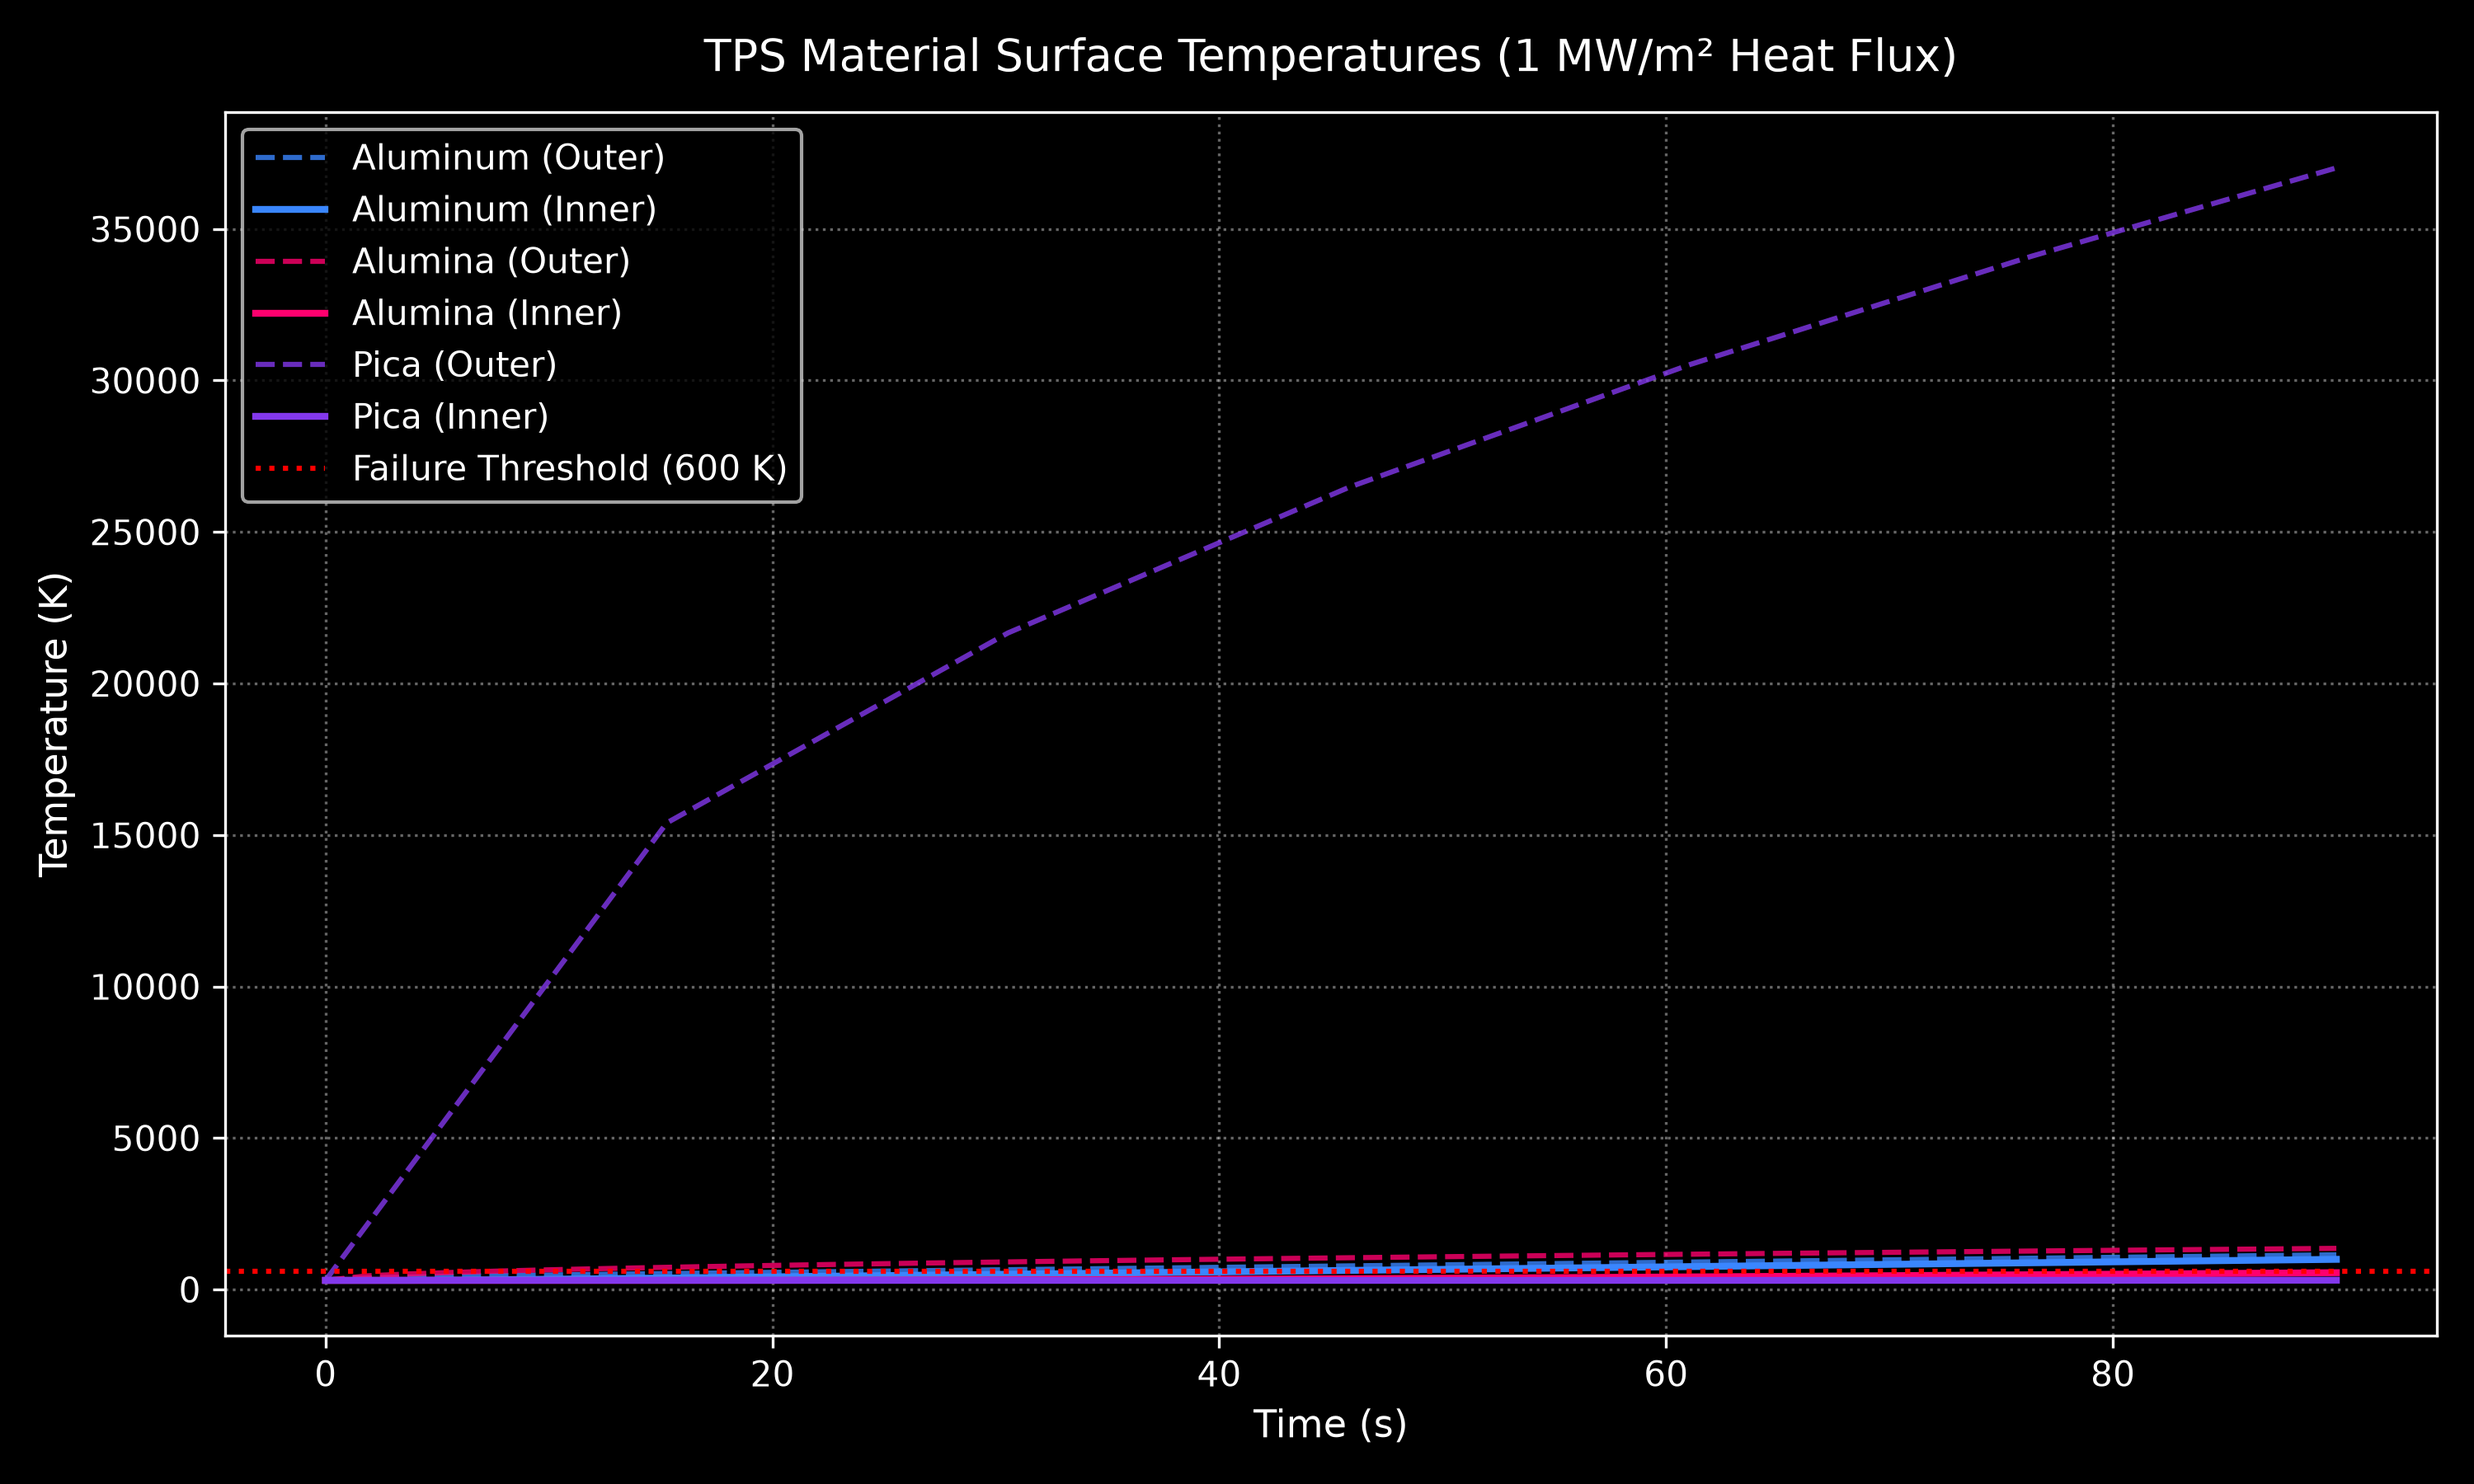
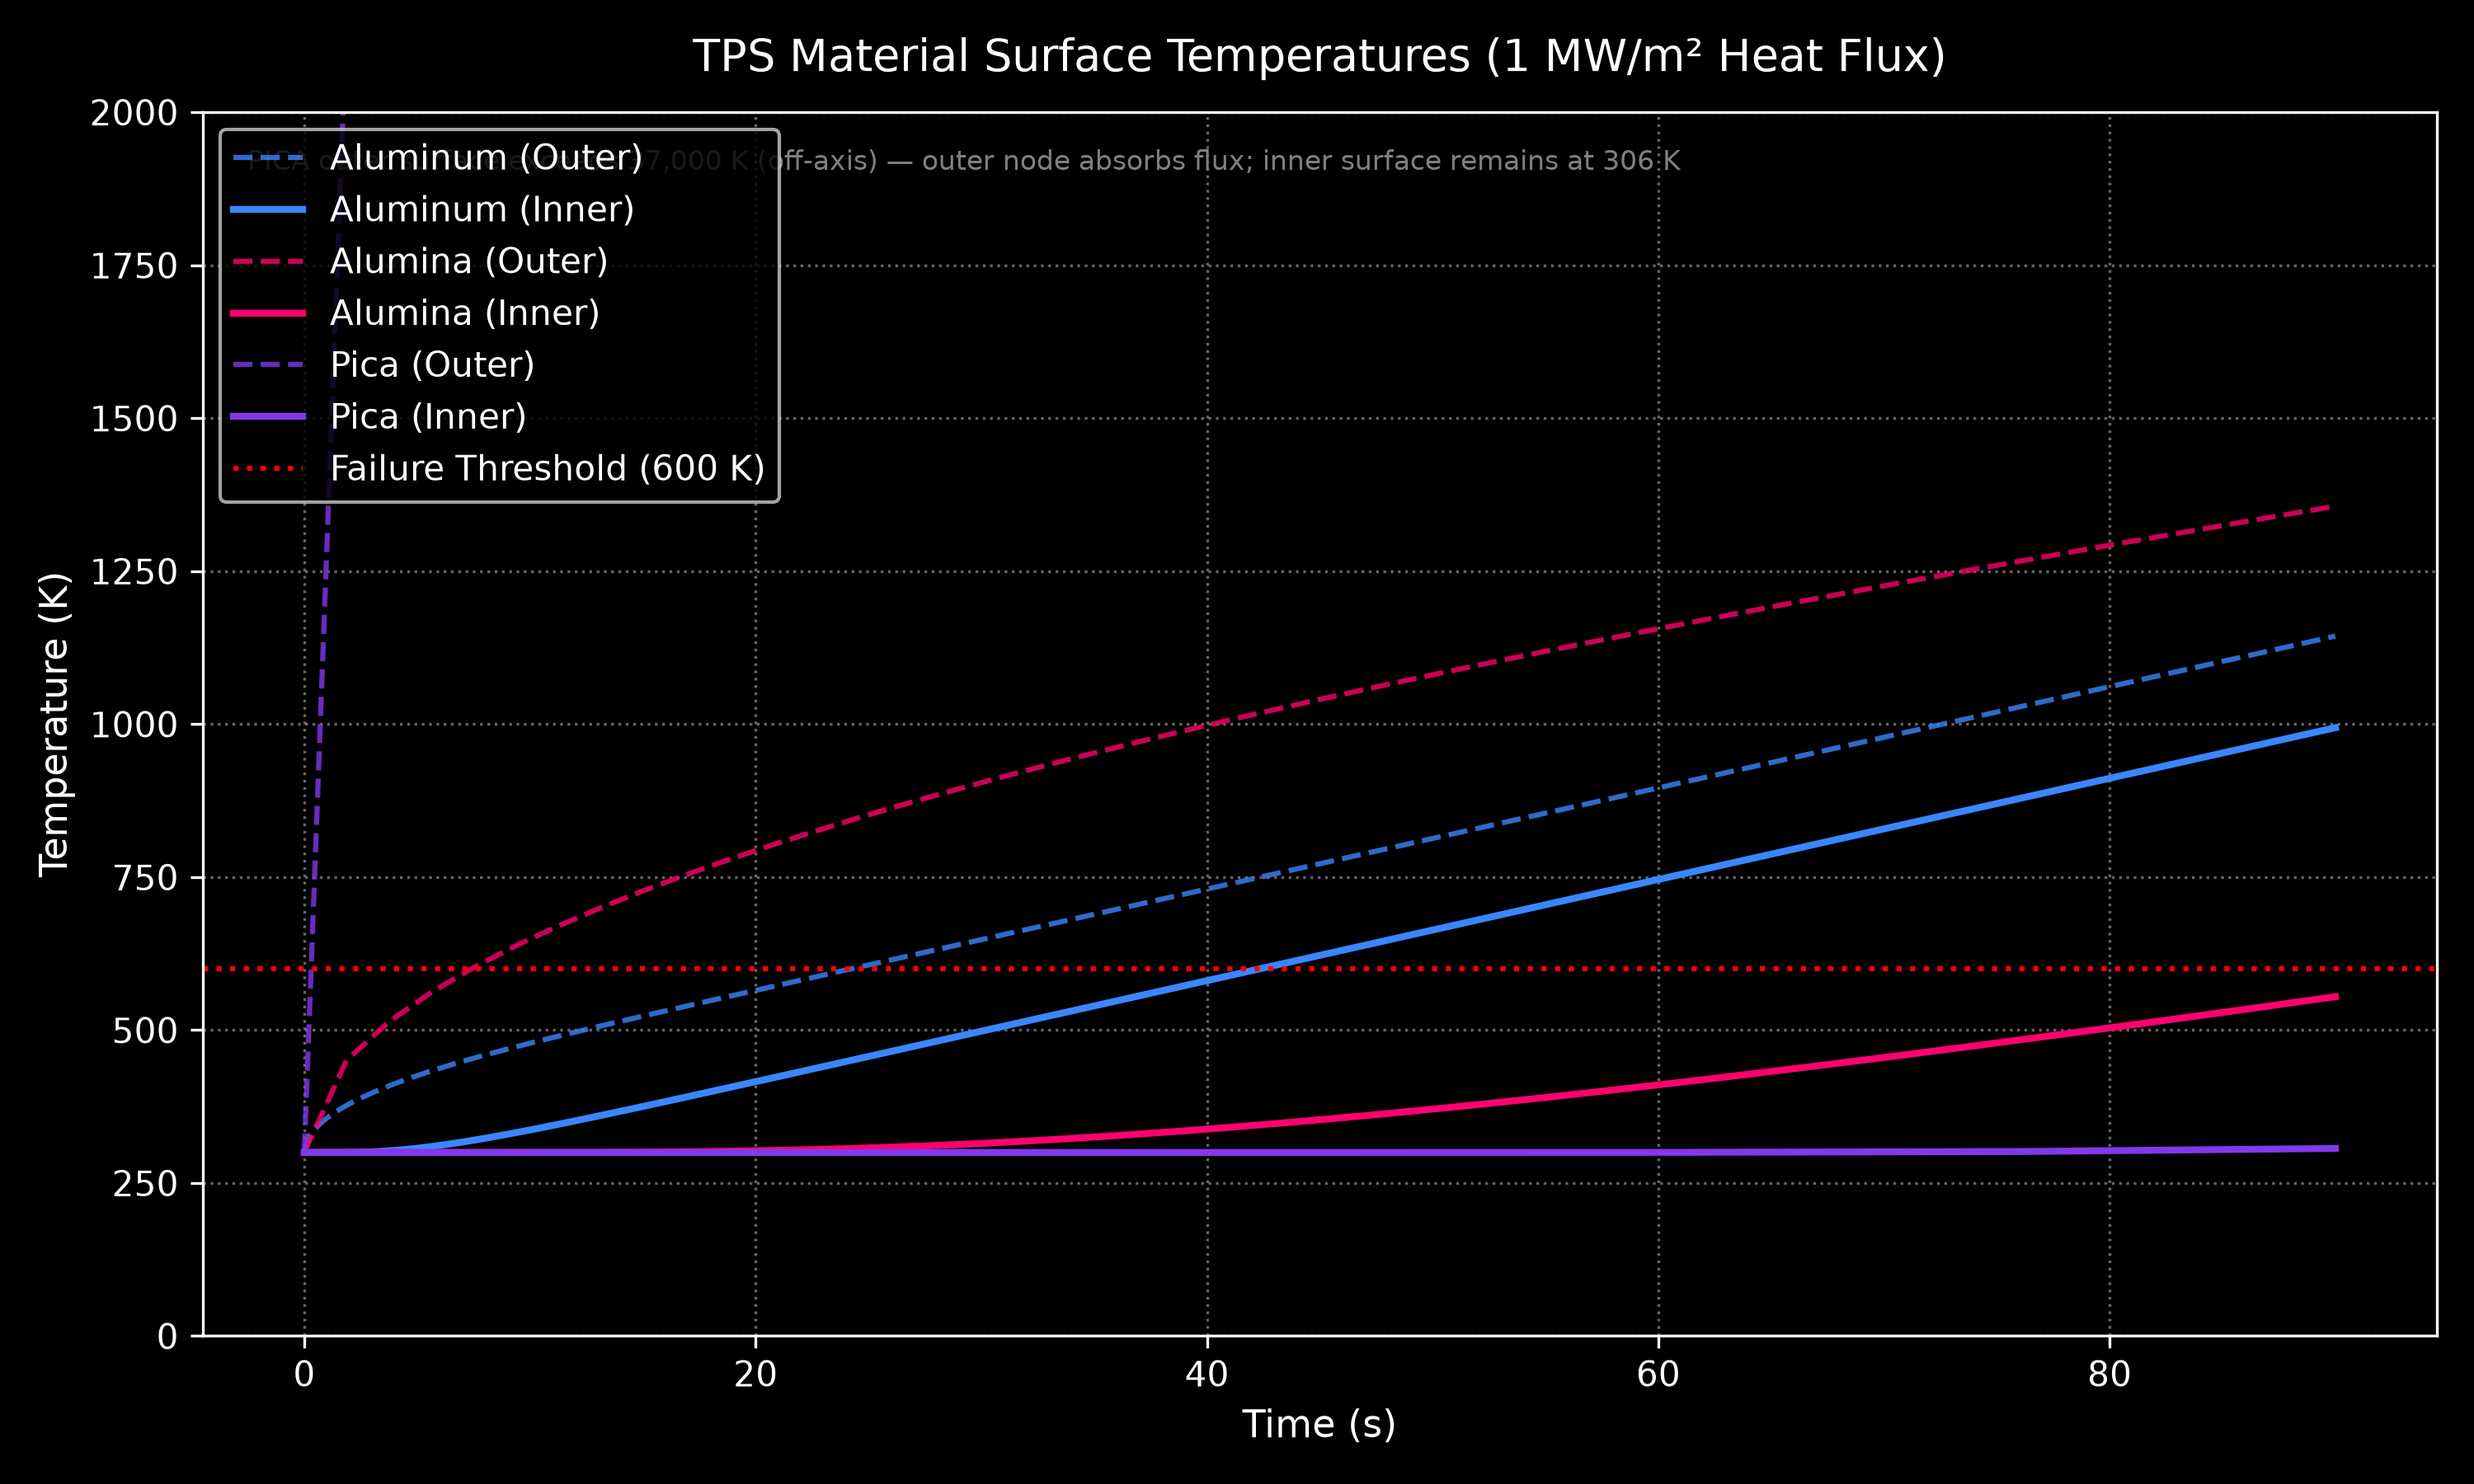
Cap y-axis at 2000K, annotate PICA outer surface behavior

diff --git a/visualise.py b/visualise.py
@@ -34,6 +34,13 @@ def temp_chart(results, save_path="figures/comparison.png"):
     plt.title("TPS Material Surface Temperatures (1 MW/m² Heat Flux)", fontsize=13, pad=12)
     plt.grid(True, linestyle=":", alpha=0.4)
     plt.legend(loc="upper left")
+    plt.ylim(0, 2000)
+    plt.annotate("PICA outer surface exceeds 37,000 K (off-axis) — outer node absorbs flux; inner surface remains at 306 K",
+             xy=(0.02, 0.97), xycoords='axes fraction', fontsize=8,
+             color='gray', va='top')
+
+
+
     plt.tight_layout()
     
     plt.savefig(save_path, dpi=300)
